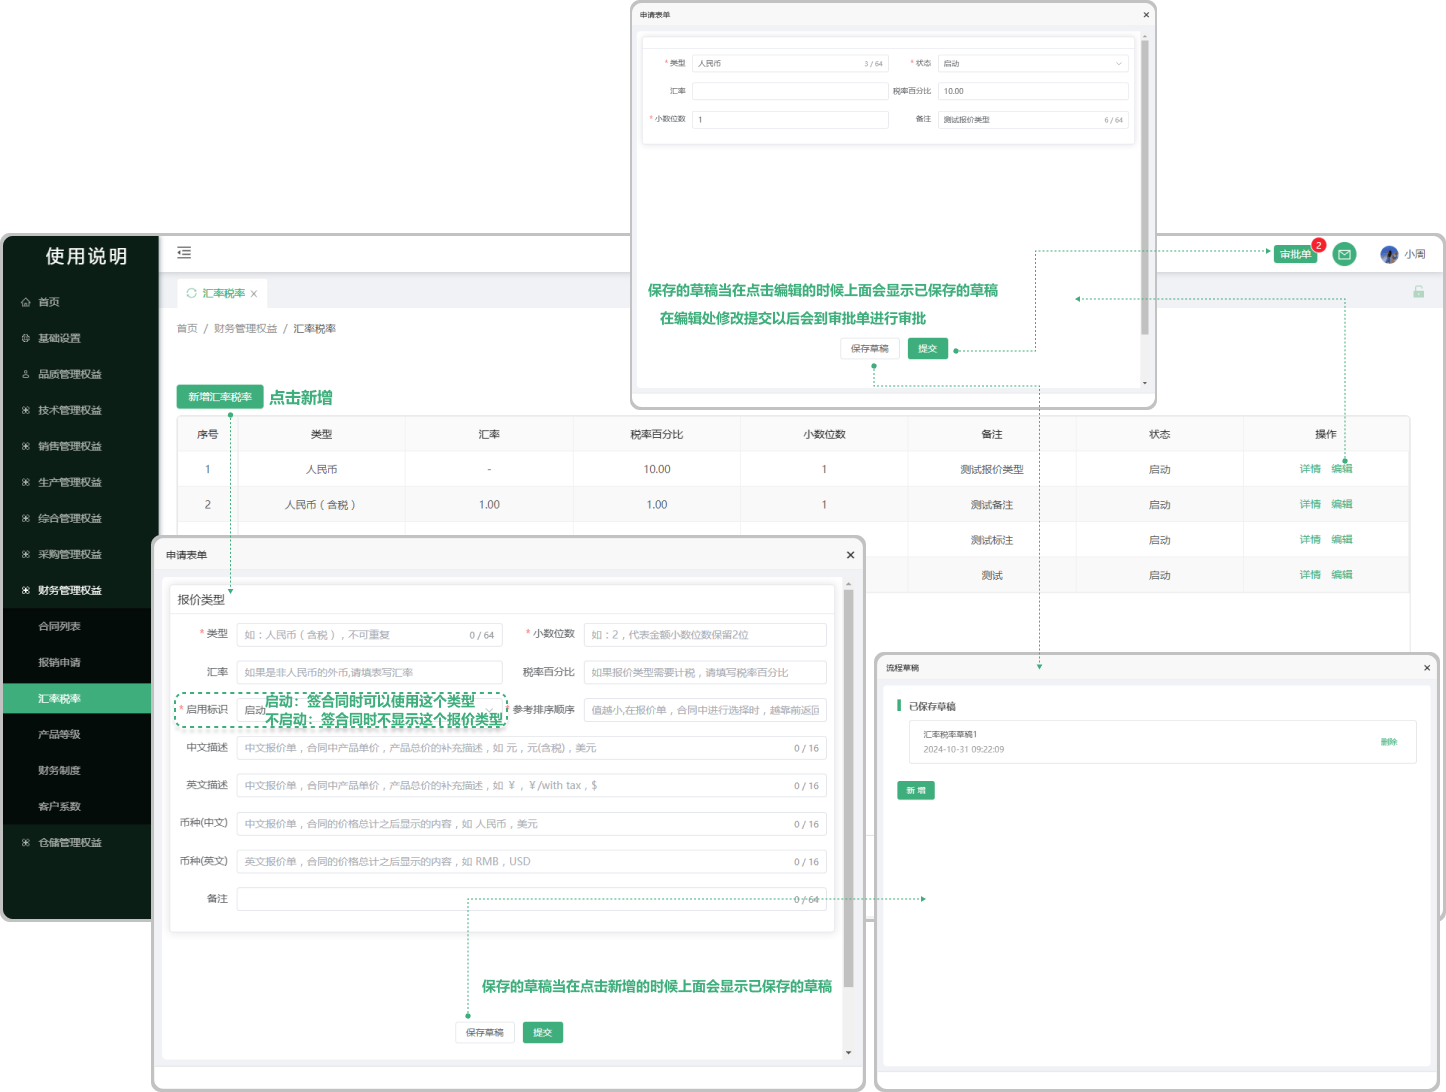
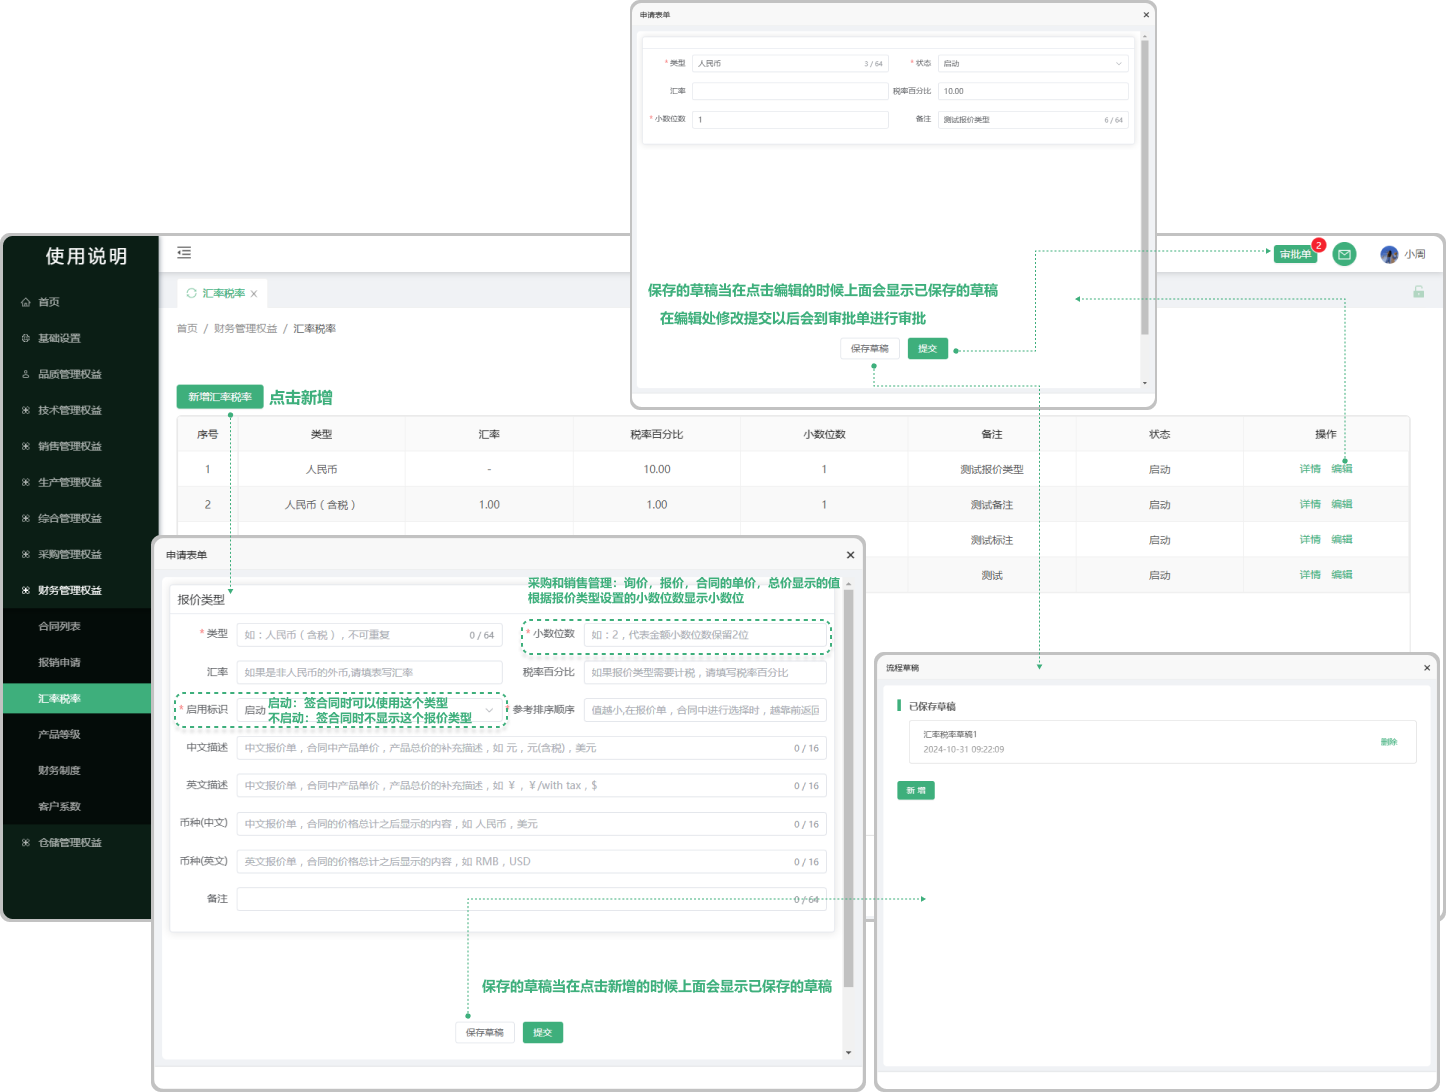
jintianxiugai

Changed region(s): [[0.1867, 0.6227, 0.3423, 0.685], [0.3423, 0.5293, 0.5913, 0.5604]]

diff --git a/docs/基础设置/公司信息/部门岗位.md b/docs/基础设置/公司信息/部门岗位.md
@@ -22,3 +22,45 @@
 
 ![如图所示](../../file/gwxq.png)
 
+#### 3.定时消息选择
+> 基础设置-岗位详情界面，新增了员工生日，合同续签，设备计量定检周期和设备保养周期定时消息提醒设置
+
+* 员工生日-约定日期
+
+  -只需要设置提前提醒的天数和是否进行每日提醒，系统自动进行消息提醒的发送
+
+  -通过每日提醒启停按钮设置是否每日发送提醒消息
+
+  -消息提醒的启停：通过页面启用按钮进行设置，高亮状态为启用，再次点击变为置灰状态为停用，停用后提醒不再发送。
+
+  -例如员工生日提醒，A员工生日12.28，设置了提前15天，每日提醒，则会在12.13号开始，每日都会进行消息提醒的发送
+
+  -消息提醒设置提醒范围：通过勾选岗位设置消息提醒的人员范围，处于岗位下的人员均会收到消息提醒通知
+
+  -所接受的信息会通知在首页的信息列表中（点击首页上方小铃铛图标方可查看）
+
+  -点击全部展示按键可查看更多定时信息（可编辑修改）
+
+![如图所示](../../file/gwsz-dsrw1.png )
+
+* 员工生日-指定日期
+
+  -点击日历图标用户可以指定提醒日期和提醒的时间范围，方式
+
+  -设置了指定日期，通过指定日期时间方式进行了消息通知
+
+  -消息提醒的启停：通过页面启用按钮进行设置，高亮状态为启用，再次点击变为置灰状态为停用，停用后提醒不再发送
+
+  - 消息提醒设置提醒范围：通过勾选岗位设置消息提醒的人员范围，处于岗位下的人员均会收到消息提醒通知
+
+  -所接受的信息会通知在首页的信息列表中（点击首页上方小铃铛图标方可查看）
+
+  -点击全部展示按键可查看更多定时信息（可编辑修改）
+
+![如图所示](../../file/gwsz-dsrw2.png )
+
+
+* 合同签约-约定日期-指定日期
+
+   -和上方员工生日信息一致，可参考员工生日定时消息提醒
+

diff --git a/docs/采购管理/合同列表.md b/docs/采购管理/合同列表.md
@@ -66,6 +66,11 @@
 * 使用提示：点击使用提示可弹出弹窗，在弹窗中显示动图，可切换查看对应功能的使用（新增字段、批量修改价格、调整宽度、签章显示、签章不显示）
 * 历史报价:跟这个公司销售过这个产品，如果再次报价就会有之前的报价信息
 * 历史成交价:跟这个公司销售过这个产品,成功了以后再次销售会有之前的历史成交价
+* 单价/总计小数点位数显示：根据报价类型设置的小数位数显示小数位
+
+  -（例如：报价类型设置的小数位数是2位，产品列表中单价，总价显示的金额位数是两位）
+
+  -（报价类型设置的小数位数是4位，产品列表中单价，总价显示的金额位数是4位）
 * 总计:是所添加的产品单价的总计(支持更改单价添加公式(加 , 减 , 乘(乘的是百分比也就是0.01) 输入数值)
 * 字段更改:在添加产品信息以后可以悬浮对应的产品信息如果出现"更改的图标"就代表可以更改这个产品内容的信息,或者出现时双击也可以更改
 * 交货时间：位于合同的条款下面，双击在乙方“____”之前将货物送到......

diff --git a/docs/销售管理/合同列表.md b/docs/销售管理/合同列表.md
@@ -83,6 +83,11 @@
 * 使用提示：点击使用提示可弹出弹窗，在弹窗中显示动图，可切换查看对应功能的使用（新增字段、批量修改价格、调整宽度、签章显示、签章不显示）
 * 历史报价：跟这个公司销售过这个产品，如果再次报价就会显示之前的报价信息
 * 历史成交价：跟这个公司销售过这个产品,成功了以后再次销售会显示之前的历史成交价
+* 单价/总计小数点位数显示：根据报价类型设置的小数位数显示小数位
+
+  -（例如：报价类型设置的小数位数是2位，产品列表中单价，总价显示的金额位数是两位）
+
+  -（报价类型设置的小数位数是4位，产品列表中单价，总价显示的金额位数是4位）
 * 总计：是所添加的产品单价的总计(支持更改单价添加公式(加 , 减 , 乘(乘的是百分比也就是0.01) 输入数值)
 * 字段更改：在添加产品信息以后可以悬浮对应的产品信息，如果出现"更改的图标"就代表可以更改这个产品内容的信息,或者出现时双击也可以更改
 * 交货时间：位于合同的条款下面，双击在乙方“____”之前..

diff --git a/docs/采购管理/询价列表.md b/docs/采购管理/询价列表.md
@@ -36,6 +36,11 @@
 * 使用提示：点击使用提示可弹出弹窗，在弹窗中显示动图，可切换查看对应功能的使用（新增字段、批量修改价格、调整宽度、签章显示、签章不显示）
 * 历史报价 : 跟这个公司销售过这个产品，如果再次报价就会有之前的报价信息
 * 历史成交价 : 跟这个公司销售过这个产品,成功了以后再次销售会有之前的历史成交价
+* 单价/总计小数点位数显示：根据报价类型设置的小数位数显示小数位
+
+  -（例如：报价类型设置的小数位数是2位，产品列表中单价，总价显示的金额位数是两位）
+
+  -（报价类型设置的小数位数是4位，产品列表中单价，总价显示的金额位数是4位）
 * 总计 : 是所添加的产品单价的总计(支持更改单价添加公式(加 , 减 , 乘(乘的是百分比也就是0.01) 输入数值)
 * 字段更改 : 在添加产品信息以后可以悬浮对应的产品信息如果出现"更改的图标"就代表可以更改这个产品内容的信息,或者出现时双击也可以更改
 * 存为模板 : 如果点击存为模板在模板中展示所存的模板

diff --git a/docs/技术管理/工装设备.md b/docs/技术管理/工装设备.md
@@ -1,0 +1,39 @@
+# 工装设备
+> 工装设备 位于技术部板块，用于维护技术部使用的工装设备，包含、计量定检发起流程、设备保养发起流程、设备报修发起流程、设备报废发起流程
+
+> 履历界面（工装设备二级页面）操作流程、设备报废流程、设备计量定检结束流程、设备定期保养结束流程、设备报修结束流程 (根据发起的设备维护类型，显示对应结束操作)
+
+#### 1.新增工装设备
+
+* 设备编号是必选项
+
+* 保存的草稿可在再次新增工装设备时显示
+
+#### 2.设备管理员
+
+* 点击人员名称可查看这个人员的手机号、岗位
+
+#### 3.详情
+
+* 点击详情可查看这个工装设备的详细信息
+
+
+![如图所示](../file/jsgzsb.png )
+
+#### 4.编辑功能
+
+* 可编辑之前所增加的工装设备
+
+![如图所示](../file/jsgzsb2.png )
+
+
+#### 5.报废功能
+
+* 报废完成以后报废的数据会带到设备履历中
+
+  -报废以后页面只能编辑
+
+* 在设备履历中可结束报废详情
+  -设备履历图标旁边的数字代表里面有多少条数据
+
+![如图所示](../file/jsgzsb3.png )

diff --git a/docs/销售管理/报价列表.md b/docs/销售管理/报价列表.md
@@ -56,6 +56,11 @@
 * 使用提示：点击使用提示可弹出弹窗，在弹窗中显示动图，可切换查看对应功能的使用（新增字段、批量修改价格、调整宽度、签章显示、签章不显示）
 * 历史报价：跟这个公司销售过这个产品，如果再次报价就会有之前的报价信息
 * 历史成交价：跟这个公司销售过这个产品,成功了以后再次销售会有之前的历史成交价
+* 单价/总计小数点位数显示：根据报价类型设置的小数位数显示小数位
+
+  -（例如：报价类型设置的小数位数是2位，产品列表中单价，总价显示的金额位数是两位）
+
+  -（报价类型设置的小数位数是4位，产品列表中单价，总价显示的金额位数是4位）
 * 总计：是所添加的产品单价的总计(支持更改单价添加公式(加 , 减 , 乘(乘的是百分比也就是0.01) 输入数值)
 * 字段更改：在添加产品信息以后可以悬浮对应的产品信息如果出现"更改的图标"就代表可以更改这个产品内容的信息,或者出现时双击也可以更改
 

diff --git a/docs/财务管理/汇率税率.md b/docs/财务管理/汇率税率.md
@@ -6,6 +6,12 @@
 
 * 点击新增可以新增 "报价类型"
 
+   -小数位数：采购和销售管理：询价，报价，合同的单价，总价显示的值，根据报价类型设置的小数位数显示小数位
+
+     （例如：报价类型设置的小数位数是2位，产品列表中单价，总价显示的金额位数是2位）
+  
+     （列如：报价类型设置的小数位数是4位，产品列表中单价，总价显示的金额位数是4位）
+
    -启动时在新增合同的时可以使用报价类型
 
    -不启动时在新增合同的时不显示这个报价类型

diff --git a/docs/财务管理/合同列表.md b/docs/财务管理/合同列表.md
@@ -21,7 +21,9 @@
 
 #### 3.合同金额
 
-* 合同金额下方的 — + 指的是(+销售)（—采购），列表下面展示应付金额、应收金额（展示的金额指属于当前页面）
+* 合同金额下方的 — + 指的是(+销售)（—采购）
+  
+  -列表应收款金额，应付款金额，已付款金额，未付款金额，根据销售,采购的全部合同进行汇总显示
 
 #### 4.详情
 
